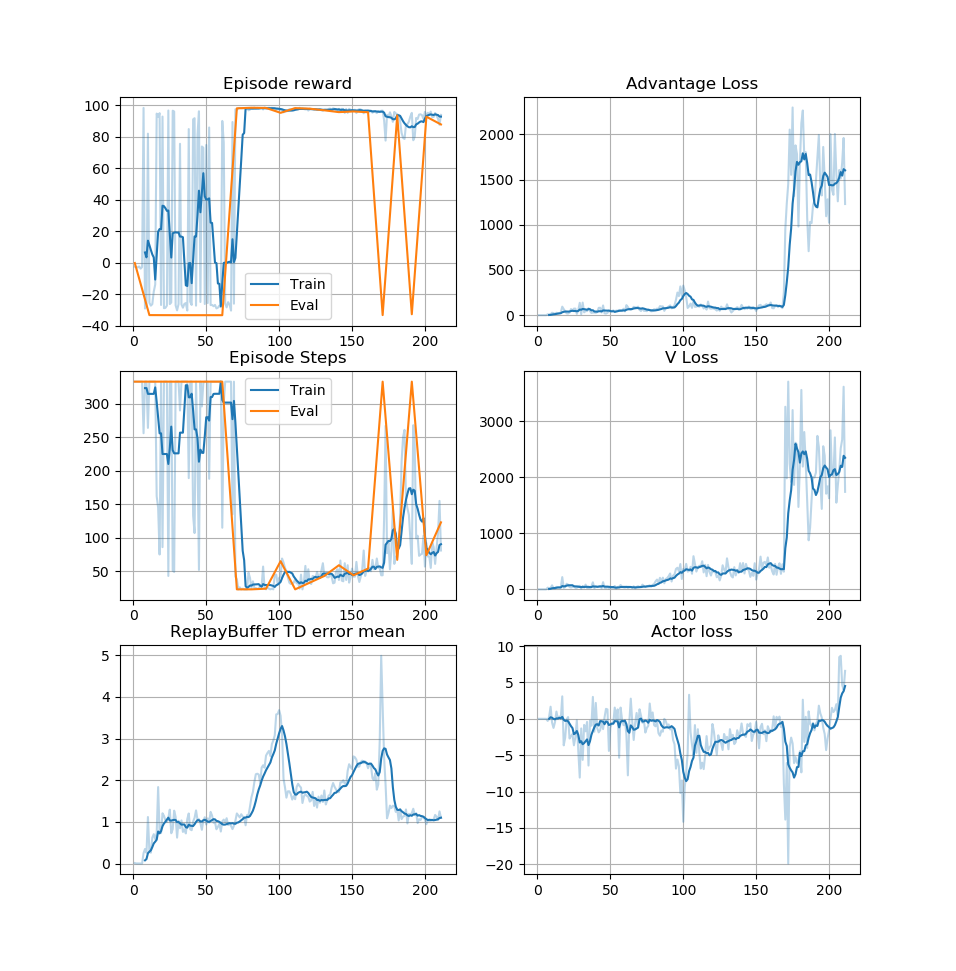
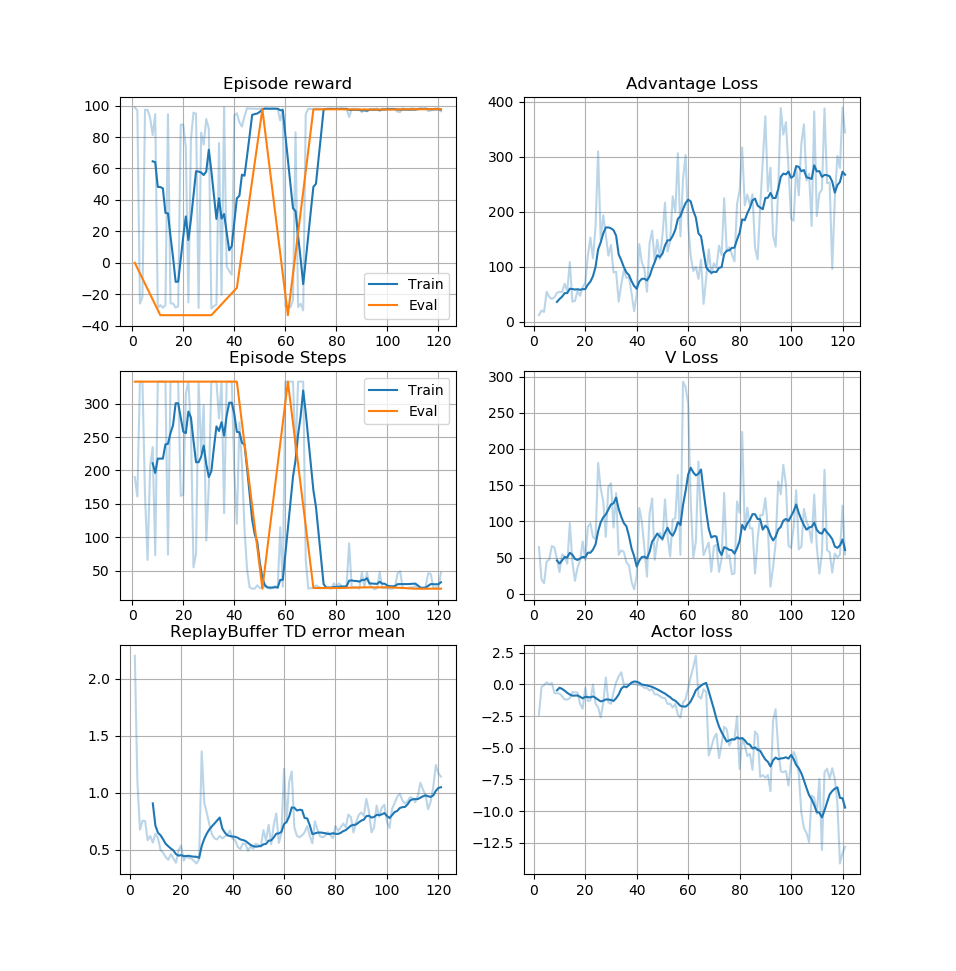
Added action normalization and dropout to Q-Network and Policy

diff --git a/agents/policy_gradient.py b/agents/policy_gradient.py
@@ -4,7 +4,7 @@ import numpy as np
 
 class Policy():
 
-    def __init__(self, task, sess, stats, name='actor', hidden_units=64):
+    def __init__(self, sess, task, stats, name='actor', hidden_units=64, dropout_rate=0.2):
         self.task = task
         self.sess = sess
         self.stats = stats
@@ -19,46 +19,50 @@ class Policy():
 
         # create policy network
         with tf.variable_scope(name):
-            self.state, self.action_output = self._create_policy_network(hidden_units)
-            self.action_gradients, self.loss, self.update_op = self._create_update_network()
+            self._create_policy_network(hidden_units, dropout_rate)
+            self._create_update_network()
 
     def act(self, states):
         actions = self.sess.run(self.action_output, feed_dict={
             self.state: states,
+            self.is_training: False,
         })
         return actions
 
     def learn(self, states, action_gradients):
         action_gradients = np.array(action_gradients).reshape(-1, self.action_size)
-        _, loss = self.sess.run([self.update_op, self.loss], feed_dict={
+        _, loss = self.sess.run([self.train_op, self.loss], feed_dict={
             self.state: states,
             self.action_gradients: action_gradients,
+            self.is_training: True,
         })
         self.stats.scalar('actor_loss', loss)
         return
 
-    def _create_policy_network(self, hidden_units):
-        state = tf.placeholder(tf.float32, shape=(None, self.state_size), name='state')
+    def _create_policy_network(self, hidden_units, dropout_rate):
+        self.state = tf.placeholder(tf.float32, shape=(None, self.state_size), name='state')
+        self.is_training = tf.placeholder(tf.bool, name='is_training')
 
-        x = tf.layers.dense(state, hidden_units)
+        x = tf.layers.dense(self.state, hidden_units)
         x = tf.nn.leaky_relu(x)
 
         x = tf.layers.dense(x, hidden_units)
         x = tf.nn.leaky_relu(x)
 
+        x = tf.layers.dropout(x, training=self.is_training, rate=dropout_rate)
+
         x = tf.layers.dense(x, hidden_units)
         x = tf.nn.leaky_relu(x)
+
+        x = tf.layers.dropout(x, training=self.is_training, rate=dropout_rate)
 
         logits = tf.layers.dense(x, self.action_size)
         output = tf.nn.sigmoid(logits)
-        action_output = output * self.action_range + self.action_low
-        return state, action_output
+        self.action_output = output * self.action_range + self.action_low
 
     def _create_update_network(self):
-        action_gradients = tf.placeholder(tf.float32, (None, self.action_size), name='action_gradients')
-        dAdvantage_dTheta = action_gradients * self.action_output
-        loss = -tf.reduce_mean(dAdvantage_dTheta)
+        self.action_gradients = tf.placeholder(tf.float32, (None, self.action_size), name='action_gradients')
+        dAdvantage_dTheta = self.action_gradients * self.action_output
+        self.loss = -tf.reduce_mean(dAdvantage_dTheta)
         theta = tf.trainable_variables(scope=self.name)
-        train_op = tf.train.AdamOptimizer().minimize(loss, var_list=theta)
-
-        return action_gradients, loss, train_op
+        self.train_op = tf.train.AdamOptimizer().minimize(self.loss, var_list=theta)

diff --git a/agents/q_network.py b/agents/q_network.py
@@ -3,29 +3,35 @@ import logging
 
 class QNetwork():
 
-    def __init__(self, sess, state_size, action_size, stat_collector, name='critic', hidden_units=64):
+    def __init__(self, sess, task, stat_collector, name='critic', hidden_units=64, dropout_rate=0.2):
         self.sess = sess
         self.stat_collector = stat_collector
         self.name = name
 
+        action_range = task.action_high - task.action_low
+        action_med = (task.action_low + task.action_high) / 2
+
         # Create network
         with tf.variable_scope(name):
-            self.state = tf.placeholder(tf.float32, shape=(None, state_size), name='state')
-            self.action = tf.placeholder(tf.float32, shape=(None, action_size), name='action')
+            self.state = tf.placeholder(tf.float32, shape=(None, task.state_size), name='state')
+            self.action = tf.placeholder(tf.float32, shape=(None, task.action_size), name='action')
             self.is_training = tf.placeholder(tf.bool, name='is_training')
 
             # State stream
-            x = self.state
-            x = tf.layers.dense(x, hidden_units)
+            x = tf.layers.dense(self.state, hidden_units)
             x = tf.nn.leaky_relu(x)
+
+            x = tf.layers.dropout(x, training=self.is_training, rate=dropout_rate)
 
             x = tf.layers.dense(x, hidden_units)
             state_out = tf.nn.leaky_relu(x)
 
             # Action stream
-            x = self.action
+            x = (self.action - action_med) / action_range # normalization
             x = tf.layers.dense(x, hidden_units)
             x = tf.nn.leaky_relu(x)
+
+            x = tf.layers.dropout(x, training=self.is_training, rate=dropout_rate)
 
             x = tf.layers.dense(x, hidden_units)
             action_out = tf.nn.leaky_relu(x)
@@ -34,6 +40,8 @@ class QNetwork():
             x = state_out
             x = tf.layers.dense(x, hidden_units)
             x = tf.nn.leaky_relu(x)
+
+            x = tf.layers.dropout(x, training=self.is_training, rate=dropout_rate)
 
             self.v = tf.layers.dense(x, 1)
 
@@ -65,10 +73,8 @@ class QNetwork():
             self.q_loss = tf.losses.mean_squared_error(self.q_target, self.q)
             self.advantage_loss = tf.losses.mean_squared_error(self.advantage_target, self.advantage)
 
-        update_ops = tf.get_collection(tf.GraphKeys.UPDATE_OPS)
         thetas = tf.trainable_variables(scope=self.name)
-        with tf.control_dependencies(update_ops):
-            self.train_op = tf.train.AdamOptimizer().minimize(
+        self.train_op = tf.train.AdamOptimizer().minimize(
                     self.q_loss,
                     var_list=thetas)
 
@@ -93,7 +99,8 @@ class QNetwork():
                 feed_dict={
                     self.state: states,
                     self.action: actions,
-                    self.q_target: q_targets
+                    self.q_target: q_targets,
+                    self.is_training: False,
                     })
         return td_errs
 

diff --git a/agents/agent.py b/agents/agent.py
@@ -13,8 +13,12 @@ class Agent():
         self.task = task
         self.stats = stats
 
-        self.q_network = QNetwork(sess, task.state_size, task.action_size, stats, hidden_units=16)
-        self.actor = Policy(task, sess, stats, hidden_units=16)
+        self.q_network = QNetwork(
+                sess, task, stats,
+                hidden_units=20, dropout_rate=0.1)
+        self.actor = Policy(
+                sess, task, stats,
+                hidden_units=20, dropout_rate=0.1)
 
         self.gamma = 0.99 # reward discount rate
 
@@ -42,8 +46,7 @@ class Agent():
         self._save_experience(self.last_state, action, reward, next_state, done)
 
         # Learn, if enough samples are available in memory
-        if len(self.memory) > self.batch_size:
-            self.learn()
+        self.learn()
 
         # Roll over last state and action
         self.last_state = next_state
@@ -66,6 +69,10 @@ class Agent():
 
     def learn(self):
         """Update policy and value parameters using given batch of experience tuples."""
+
+        if len(self.memory) < self.batch_size:
+            return
+
         # Convert experience tuples to separate arrays for each element (states, actions, rewards, etc.)
         experiences, experience_indexes = self.memory.sample(self.batch_size)
         action_size = self.task.action_size
